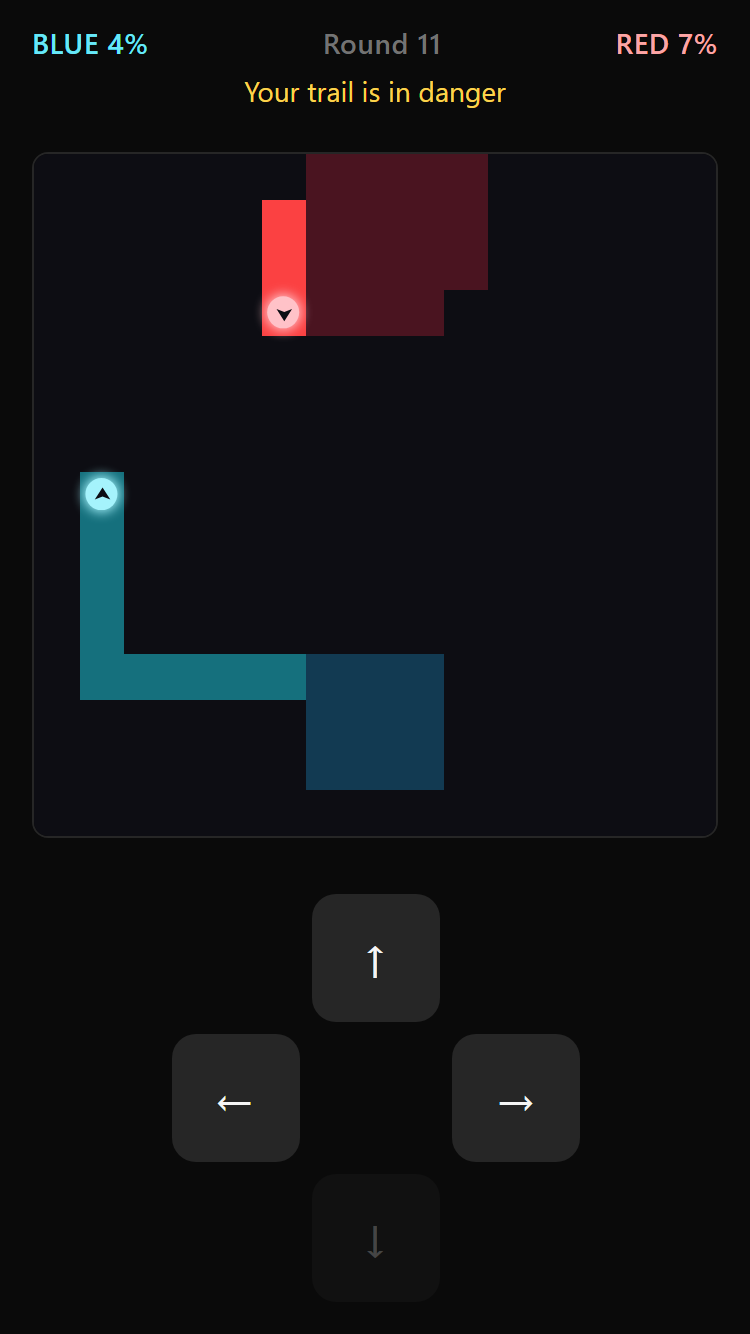
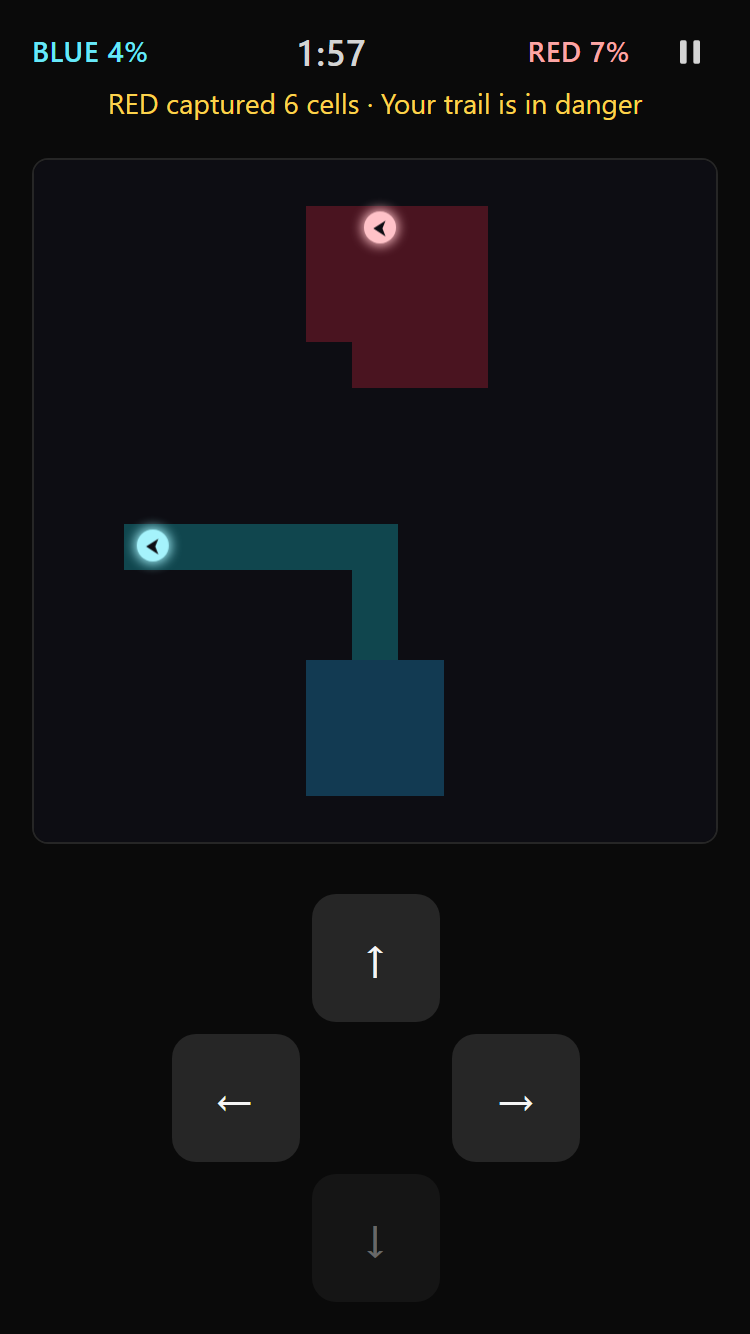
Update README and screenshots for real-time play
Screenshots at 375x667 and 390x844 now show the menu with difficulty
and speed, the countdown, a running game, the trail-danger warning,
pause, a death, the final ten seconds and Time's up.

diff --git a/README.md b/README.md
@@ -1,6 +1,6 @@
 # Territory Snake
 
-A turn-based territory duel for the mobile browser. You and the computer each steer a snake on a 15×15 grid: leave your territory to draw a trail, come back to close the loop and capture everything inside, and cut the opponent's trail before they cut yours. Both snakes move at the same time, so every tap is a small bet on what the other side will do.
+A real-time territory duel for the mobile browser. You and the computer each steer a snake on a 15×15 grid: leave your territory to draw a trail, come back to close the loop and capture everything inside, and cut the opponent's trail before they cut yours. The snakes move on their own, one cell per tick and at the same time; you only steer. A match lasts two minutes.
 
 Built as a portfolio project and a game-design experiment: the rules are specified up front, the engine is pure and tested, and the bot is explainable.
 
@@ -13,20 +13,21 @@ npm run build     # static build in dist/ (relative paths, deployable to any sub
 npm run preview   # serve the build locally
 ```
 
-Controls: on-screen D-pad on phones; arrow keys or WASD on desktop.
+Controls: swipe on the board or tap the D-pad on phones; arrow keys or WASD on desktop. Space or P pauses (hiding the tab pauses too). The menu picks the bot (Easy / Normal) and the speed (Slow 400 ms, Normal 280 ms, Fast 180 ms per tick).
 
 ## Tests and benchmark
 
 ```bash
 npm test          # unit tests, a 2000-game invariant stress test and a quick bot smoke match
-npm run bench     # full bot tournament: win rates, P1/P2 balance, move timing (~40 s)
+npm run bench     # full bot tournament: win rates, P1/P2 balance, move timing (~1.5 min)
 ```
 
 ## Architecture
 
 - `src/engine/` — the game rules as pure TypeScript with no UI imports: `createInitialState`, `getLegalMoves`, `resolveRound` → `{ state, events }`, the capture algorithm and runtime invariants.
-- `src/bot/` — computer opponents built only on the public game state: position analysis (distance home, distance to a trail, potential capture), `randomBot`, `safeBot`, and `normalBot`, a one-round maximin over a weighted evaluation whose weights live in `NORMAL_CONFIG` and whose choices `explainMove` can break down.
-- `src/ui/` — React + Tailwind screens (menu, how to play, game) that call the engine and draw its state and events; no game logic lives here.
+- `src/bot/` — computer opponents built only on the public game state: position analysis (distance home, distance to a trail, potential capture), `randomBot`, `safeBot`, `normalBot` (a one-round maximin over a weighted evaluation, weights in `NORMAL_CONFIG`, choices explained by `explainMove`) and `easyBot` on top of it (`EASY_CONFIG`: slower reactions, mistakes, less caution).
+- `src/game/` — the real-time loop without React: a match controller with an injectable clock (countdown, drift-free ticks, pause), the two-press input queue and the wall rule. Bot decisions are generators, so the loop computes them in small slices between ticks instead of inside the tick frame.
+- `src/ui/` — React + Tailwind screens (menu, how to play, game, pause) that drive the match controller and draw its state and events; no game logic lives here.
 - The UI turns engine events into readable feedback: head movement, capture flashes, a one-line round summary, a trail-danger warning and an explained end screen.
 - Playtest stats are kept in `localStorage` (`ts_stats`, `ts_games`) and can be exported as JSON from the menu.
 
